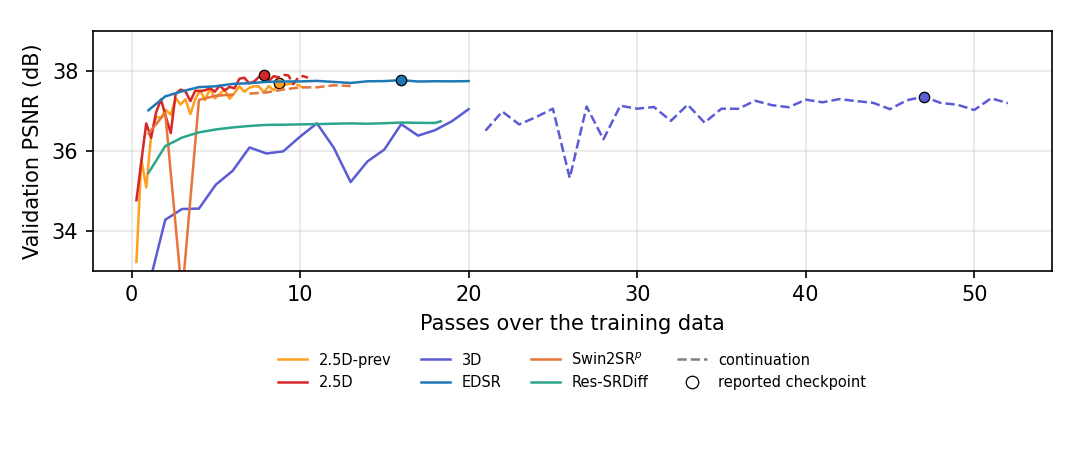
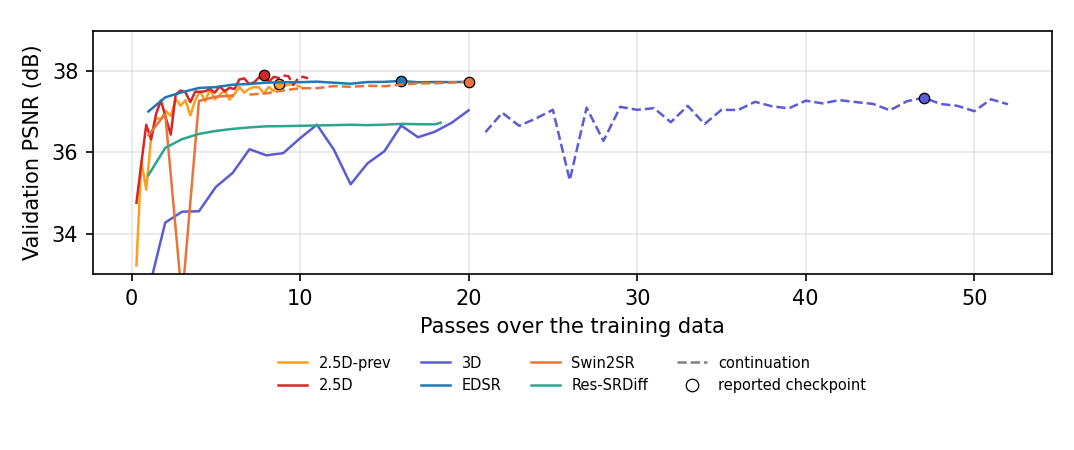
Curves figure: Swin2SR continuation finished at its 20-epoch cap

diff --git a/scripts/make_curves_and_overview.py b/scripts/make_curves_and_overview.py
@@ -52,13 +52,13 @@ def load_runs() -> dict[str, tuple[pd.DataFrame, pd.DataFrame | None, int | None
     runs["25d"] = (both, both_cont, 27)
     runs["3d"] = (pd.read_csv(tc / "3d.csv"), pd.read_csv(RES / "cont_3d" / "val_metrics.csv"), 47)
     runs["edsr"] = (pd.read_csv(tc / "edsr.csv"), None, 16)
-    sw_cont = tc / "swin2sr_cont_wandb.csv"
-    runs["swin2sr"] = (pd.read_csv(tc / "swin2sr.csv"), pd.read_csv(sw_cont) if sw_cont.exists() else None, None)
+    # Swin2SR stopped at its 20-epoch cap, still improving slightly; epoch 20 is its best and reported checkpoint.
+    runs["swin2sr"] = (pd.read_csv(tc / "swin2sr.csv"), pd.read_csv(RES / "cont_swin2sr" / "val_metrics.csv"), 20)
     runs["ressrdiff"] = (pd.read_csv(tc / "ressrdiff.csv"), None, None)
     return runs
 
 
-LABELS = {"25d": "2.5D", "25d_prev": "2.5D-prev", "3d": "3D", "edsr": "EDSR", "swin2sr": "Swin2SR$^{p}$", "ressrdiff": "Res-SRDiff"}
+LABELS = {"25d": "2.5D", "25d_prev": "2.5D-prev", "3d": "3D", "edsr": "EDSR", "swin2sr": "Swin2SR", "ressrdiff": "Res-SRDiff"}
 COLORS = {"25d": "#d62728", "25d_prev": "#ff9f1c", "3d": "#5b5bd6", "edsr": "#1f77b4", "swin2sr": "#e8743b", "ressrdiff": "#2ca58d"}
 
 
